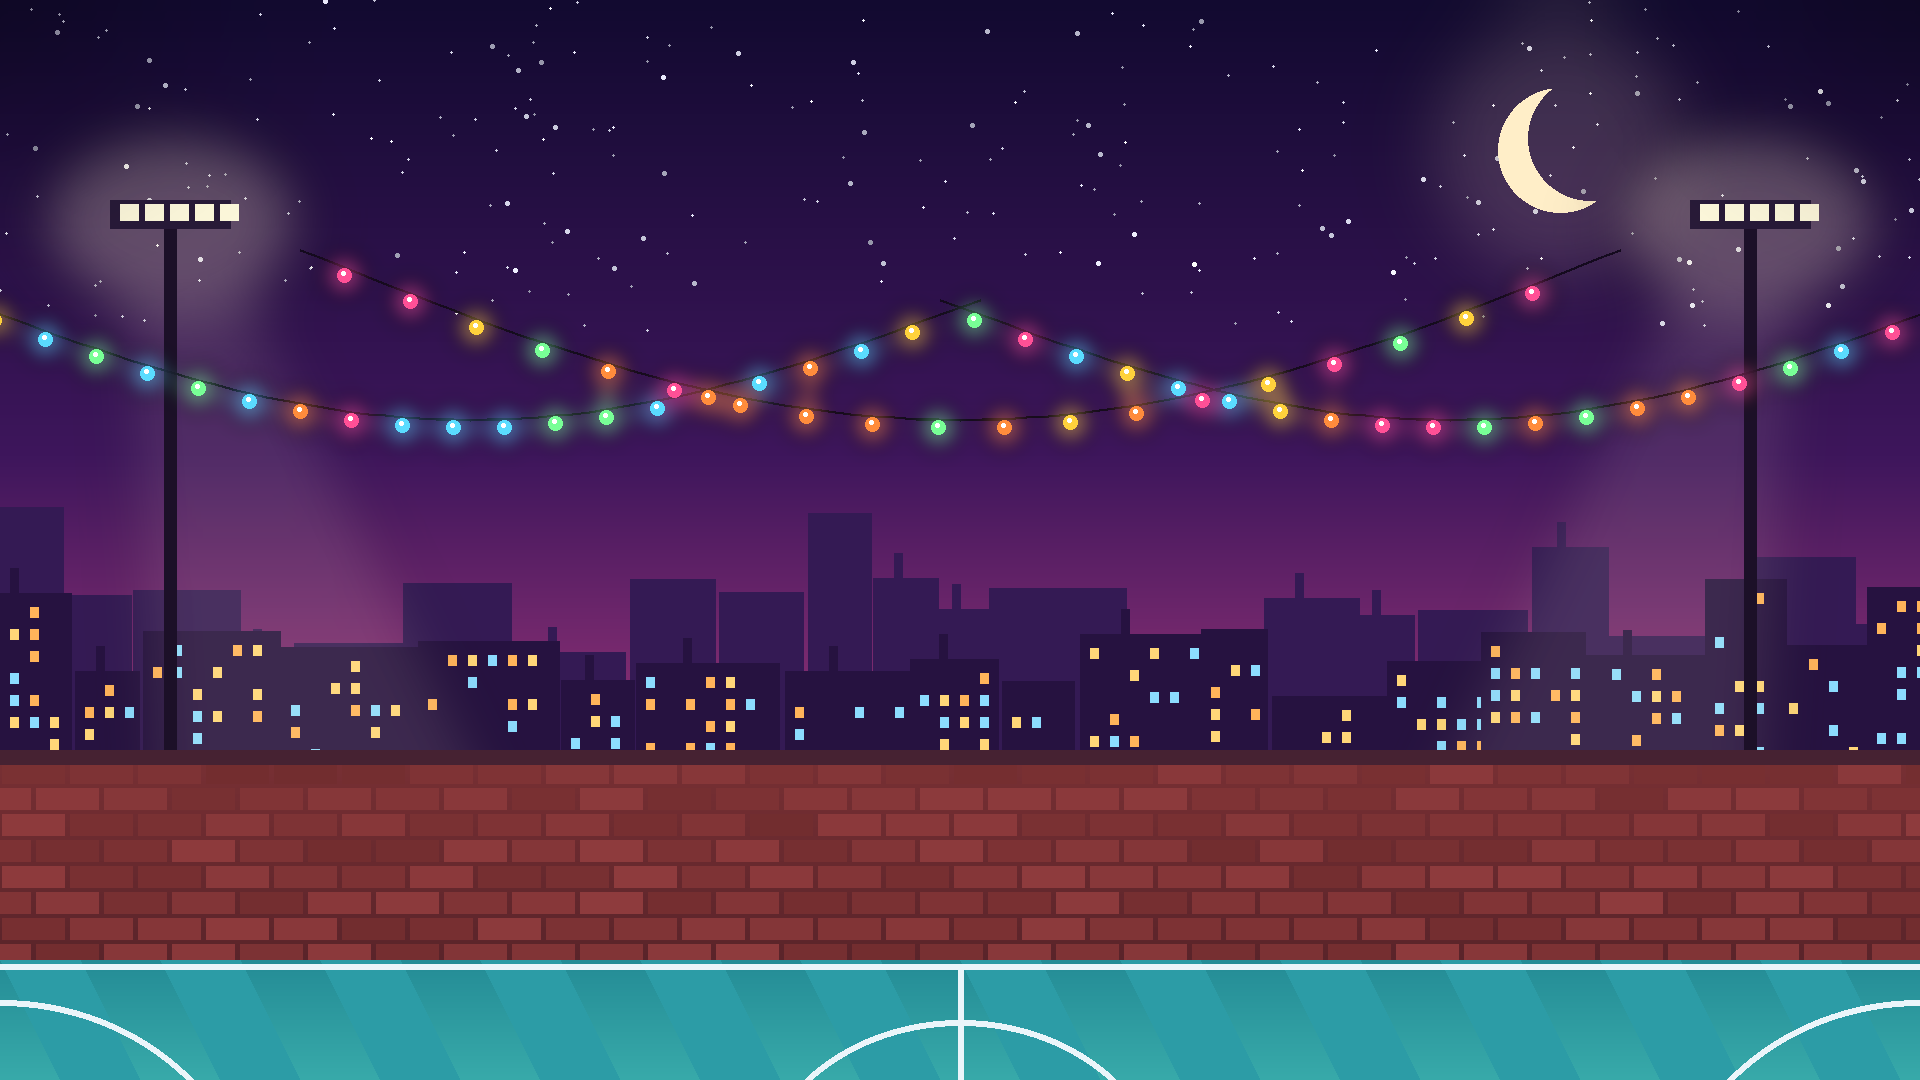
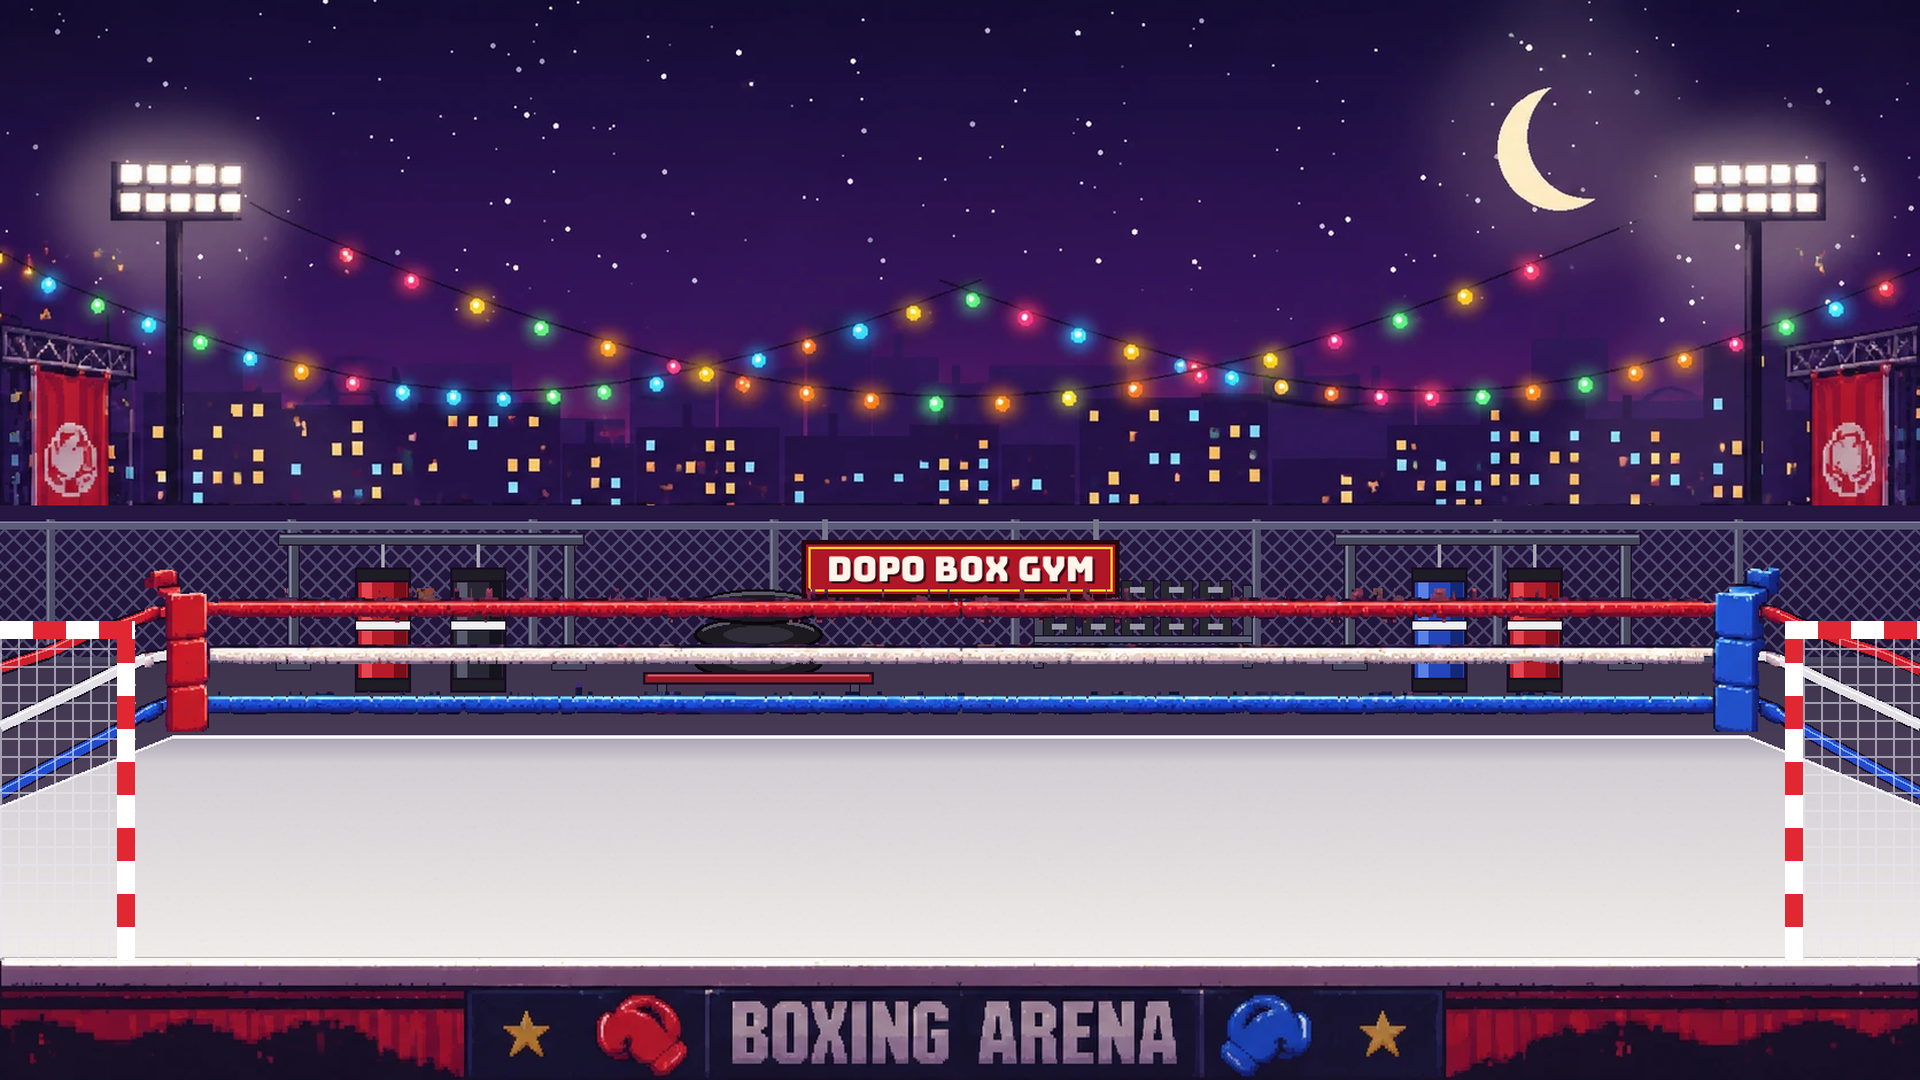
Cambia los fondos por un gimnasio de box al aire libre

diff --git a/src/presentation/VistaCancha.java b/src/presentation/VistaCancha.java
@@ -7,8 +7,14 @@ import java.awt.image.BufferedImage;
 
 import domain.DOPOSoccer;
 
-/** Hoja: el fondo de la cancha. El piso de la imagen coincide con el suelo del dominio. */
+/**
+ * Hoja: el fondo de la cancha. La imagen ya trae los arcos pintados y su piso coincide con el suelo del dominio.
+ * Si la imagen no carga, se pinta un fondo plano y los arcos se dibujan con VistaArco.
+ */
 public class VistaCancha implements Vista {
+    private final Vista arcos = new VistaCompuesta()
+        .agregar(new VistaArco(DOPOSoccer.IZQUIERDO))
+        .agregar(new VistaArco(DOPOSoccer.DERECHO));
 
     @Override
     public void dibujar(Graphics2D g2, DOPOSoccer juego) {
@@ -24,6 +30,7 @@ public class VistaCancha implements Vista {
             g2.fillRect(0, 0, ancho, suelo);
             g2.setColor(new Color(40, 150, 160));
             g2.fillRect(0, suelo, ancho, alto - suelo);
+            arcos.dibujar(g2, juego);
         }
     }
 }

diff --git a/src/presentation/PanelJuego.java b/src/presentation/PanelJuego.java
@@ -36,8 +36,6 @@ public class PanelJuego extends JPanel {
     setPreferredSize(new Dimension(configuracion.getAncho(), configuracion.getAlto()));
     escena = new VistaCompuesta()
         .agregar(new VistaCancha())
-        .agregar(new VistaArco(DOPOSoccer.IZQUIERDO))
-        .agregar(new VistaArco(DOPOSoccer.DERECHO))
         .agregar(new VistaJugador(DOPOSoccer.IZQUIERDO))
         .agregar(new VistaJugador(DOPOSoccer.DERECHO))
         .agregar(new VistaBalon())
